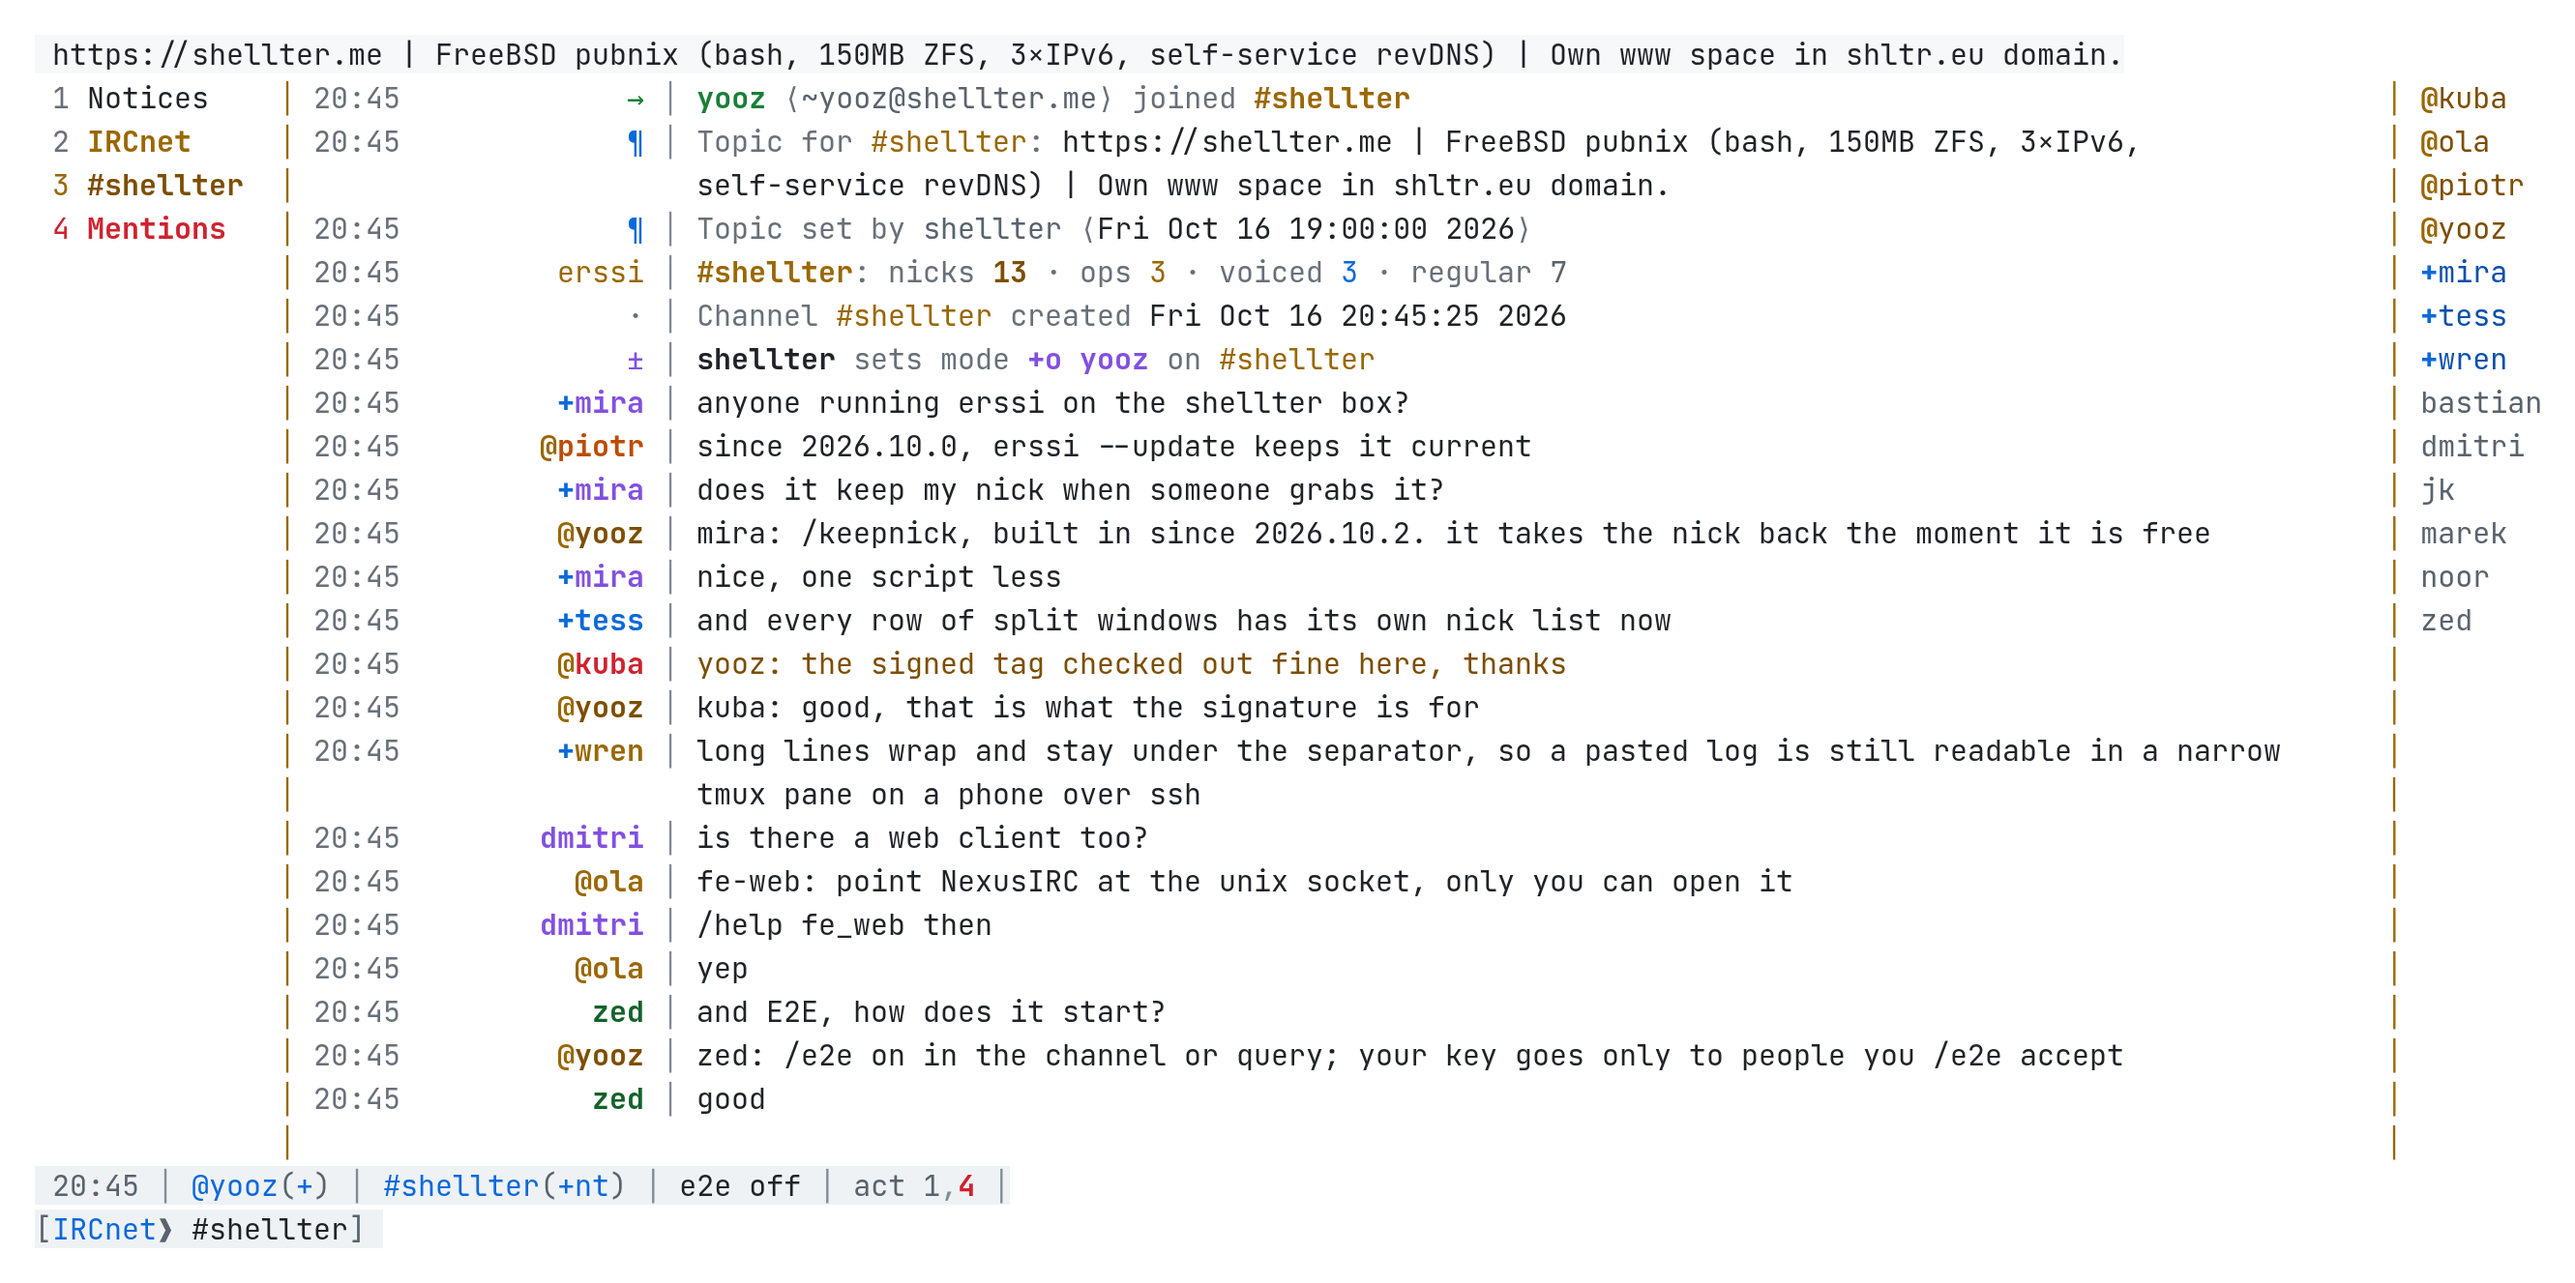
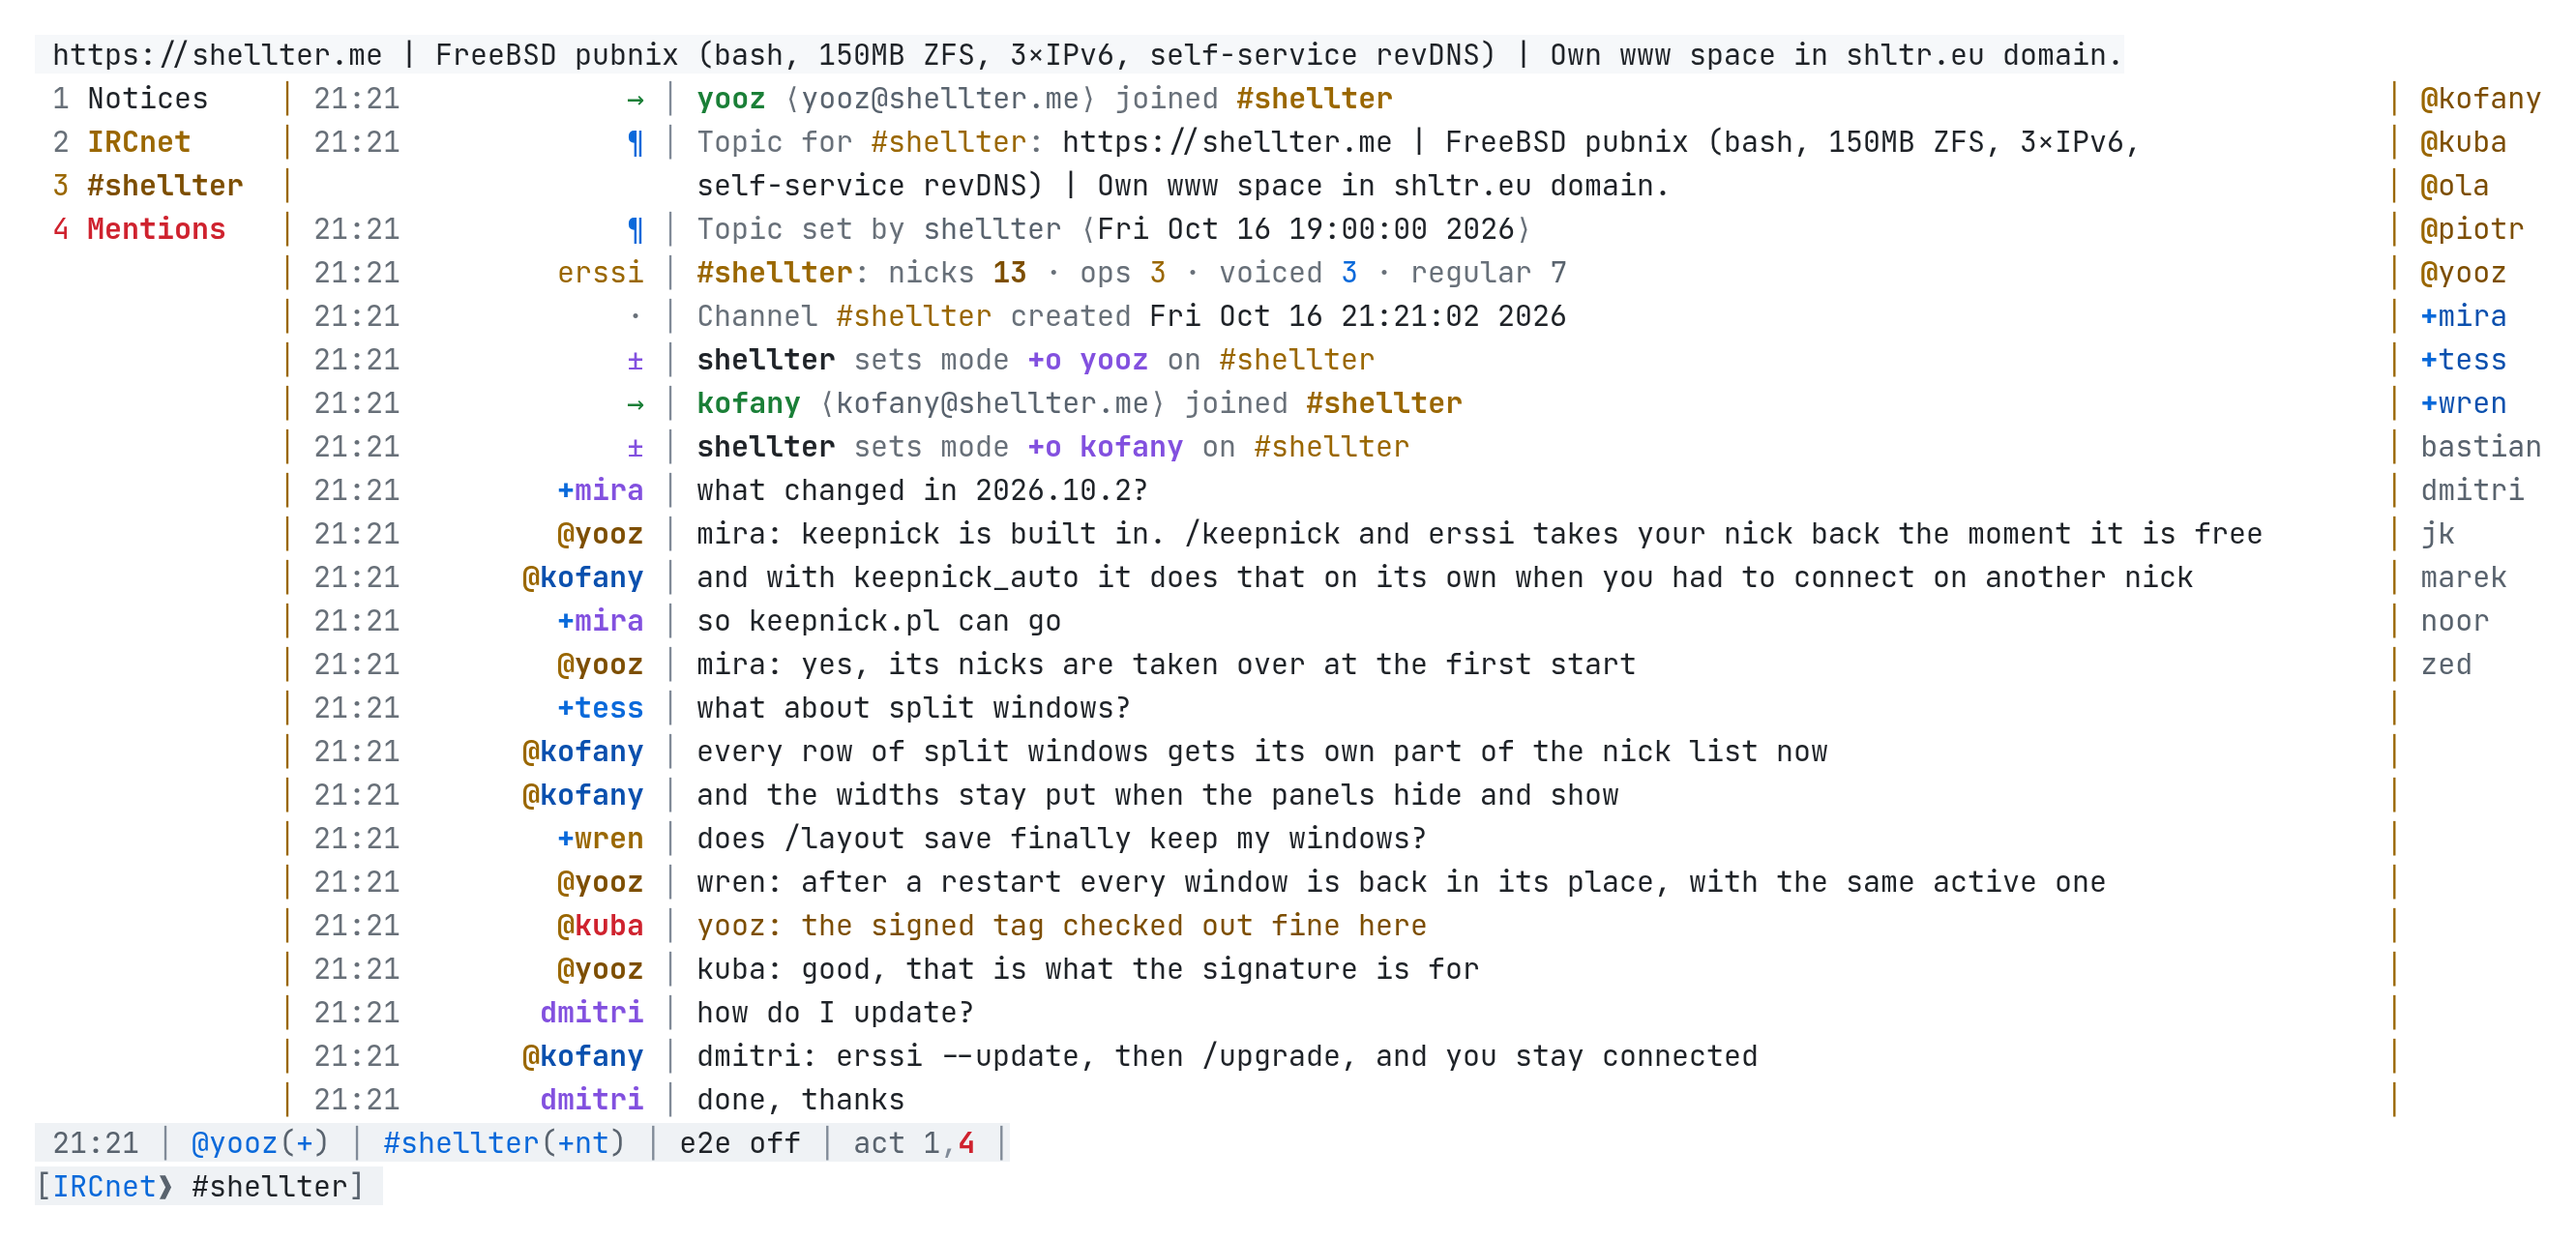
docs/images: yooz and kofany in #shellter, talking about 2026.10.2
The same screenshot setup; the channel now shows yooz and kofany join
from shellter.me, get op and answer what the release changed.

diff --git a/README.md b/README.md
@@ -18,7 +18,7 @@ who live on IRCnet: a polished default theme, help for every command, a
 built-in Mentions window, end-to-end encryption, a signed installer that
 also updates, and a security review of the parts that face the network.
 
-![erssi Shellter Edition 2026.10.2 in #shellter, shellter theme: the window list on the left, the channel with the topic, the join summary line, messages under one separator, the nick list with ranks on the right, and the statusbar](docs/images/erssi-shellter.png)
+![erssi Shellter Edition 2026.10.2 in #shellter, shellter theme, yooz and kofany answering questions about the release: the window list on the left, the channel with the topic, the join summary line, messages under one separator, the nick list with ranks on the right, and the statusbar](docs/images/erssi-shellter.png)
 
 ## Install
 
